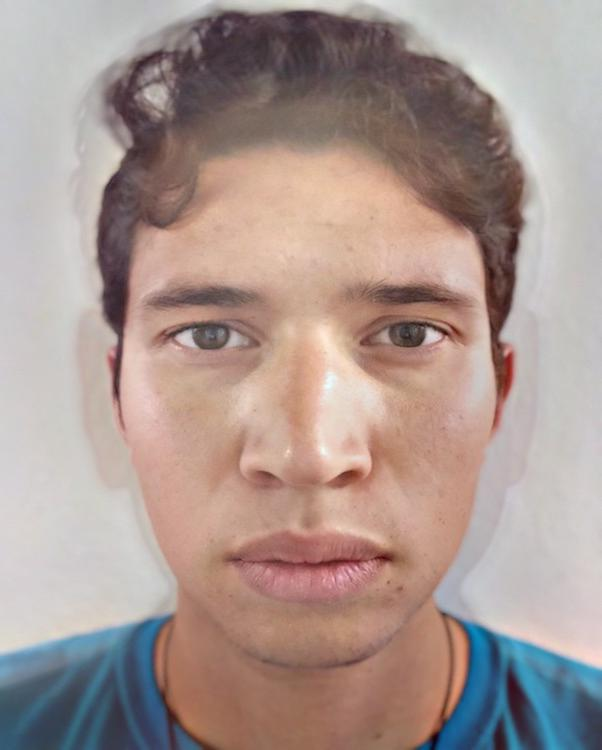
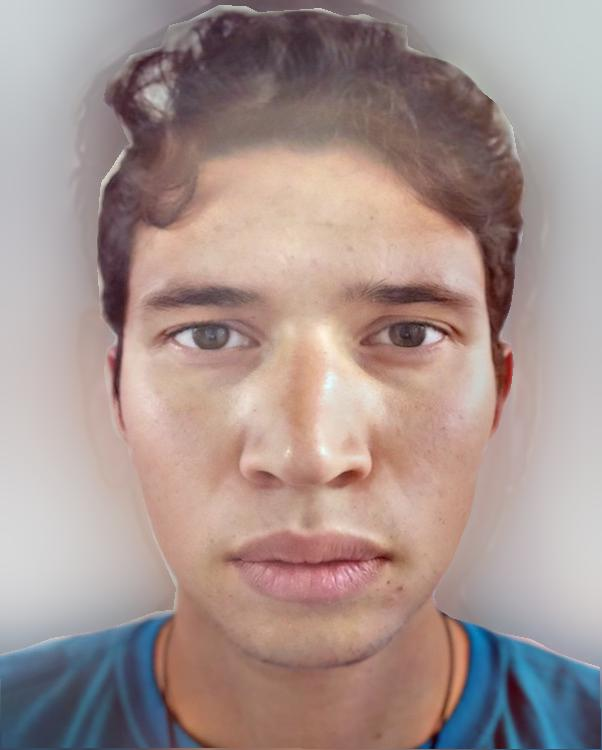
Tried manual correspondance

diff --git a/main.py b/main.py
@@ -67,7 +67,6 @@ def getResidualStack(img, imgStack):
         residualStack.append(cv2.convolve(img, g))
     return residualStack
 
-
 def getResidual(image, mask, stack_depth):
     return lowPass(image, 5*(2**stack_depth), 2**stack_depth)
 
@@ -116,8 +115,12 @@ def styleTransfer(input, example, input_channel, example_channel):
     #Getting masks around the regions of interest
     input_mask = readGrayScale('jose_mask.jpg')
     example_mask = readGrayScale('george_mask.jpg')
-    inputShape, inputTri = getFacialLandmarks(input)
-    exampleShape, exampleTri = getFacialLandmarks(example)
+    #inputShape, inputTri = getFacialLandmarks(input)
+    #exampleShape, exampleTri = getFacialLandmarks(example)
+    exampleShape = np.loadtxt('george_points.txt')
+    inputShape = np.loadtxt('jose_points.txt')
+    inputTri = scipy.spatial.Delaunay(inputShape)
+    exampleTri = scipy.spatial.Delaunay(exampleShape)
 
     stack_depth = 6
 
@@ -129,7 +132,6 @@ def styleTransfer(input, example, input_channel, example_channel):
 
     input_residual = getResidual(input_channel, input_mask, stack_depth)
     example_residual = getResidual(example_channel, example_mask, stack_depth)
-
     #Warps the Laplacian stack for example image
     #exampleWarpedLap = warpLapStack(lStackExample, exampleShape, inputShape, inputTri)
 
@@ -159,9 +161,10 @@ input_gray = readGrayScale('jose.jpg')
 example_gray = readGrayScale('george.jpg')
 
 red = styleTransfer(input, example, input_colors[0], example_colors[0])
+
 green = styleTransfer(input, example, input_colors[1], example_colors[1])
 blue = styleTransfer(input, example, input_colors[2], example_colors[2])
 
 output = np.dstack([red, green, blue])
 showImage(output)
-saveImage('./output_color_test.jpg', output)
+saveImage('./output_color_corners.jpg', output)

diff --git a/inputs.py b/inputs.py
@@ -1,0 +1,28 @@
+import sys
+import matplotlib.pyplot as plt
+import numpy as np
+import skimage as sk
+import skimage.io as skio
+from scipy.spatial import Delaunay
+
+imname = sys.argv[1]
+im2name = sys.argv[2]
+num_points = int(sys.argv[3])
+image1 = skio.imread('./' + imname + '.jpg')
+image1_full = sk.img_as_float(image1)
+
+image2 = skio.imread('./' + im2name + '.jpg')
+image2_full = sk.img_as_float(image2)
+
+plt.imshow(image1_full)
+print("Please click")
+A_points = plt.ginput(n=num_points, timeout=500, show_clicks=True)
+A_corres = np.array(A_points)
+np.savetxt('A_points_' + imname + '.txt', A_corres, fmt='%f')
+plt.close()
+print("clicked", A_corres)
+plt.imshow(image2_full)
+B_corres = np.array(plt.ginput(n=num_points, timeout=500, show_clicks=True))
+np.savetxt('B_points_' + im2name + '.txt', B_corres, fmt='%f')
+plt.close()
+print('clicked', B_corres)

diff --git a/functions.py b/functions.py
@@ -110,13 +110,9 @@ def interp(fraction, item1, item2):
 def interpFunc(xs, ys, image):
     return interp2d(xs, ys, image)
 
-def getKernel(size, sigma):
-    return cv2.getGaussianKernel(size, sigma)
-
 #Low pass of a given IMAGE with kernel SIZE and SIGMA
 def lowPass(image, size, sigma):
-    #kernel = cv2.getGaussianKernel(size, sigma)
-    kernel = getKernel(size, sigma)
+    kernel = cv2.getGaussianKernel(size, sigma)
     kernel = np.multiply(kernel, kernel.transpose())
     return cv2.filter2D(image, -1, kernel)
 
@@ -166,7 +162,7 @@ def LaplacianStackAlt(image, mask, stack_depth):
         stack.append(lowPass(image, sigma*5, sigma))
 
     for i in range(len(stack)-1):
-        stack[i] = rescale((stack[i] - stack[i+1]))
+        stack[i] = rescale((stack[i] - stack[i+1])*mask)
     return stack
 
 #Aggregates all images in STACK
